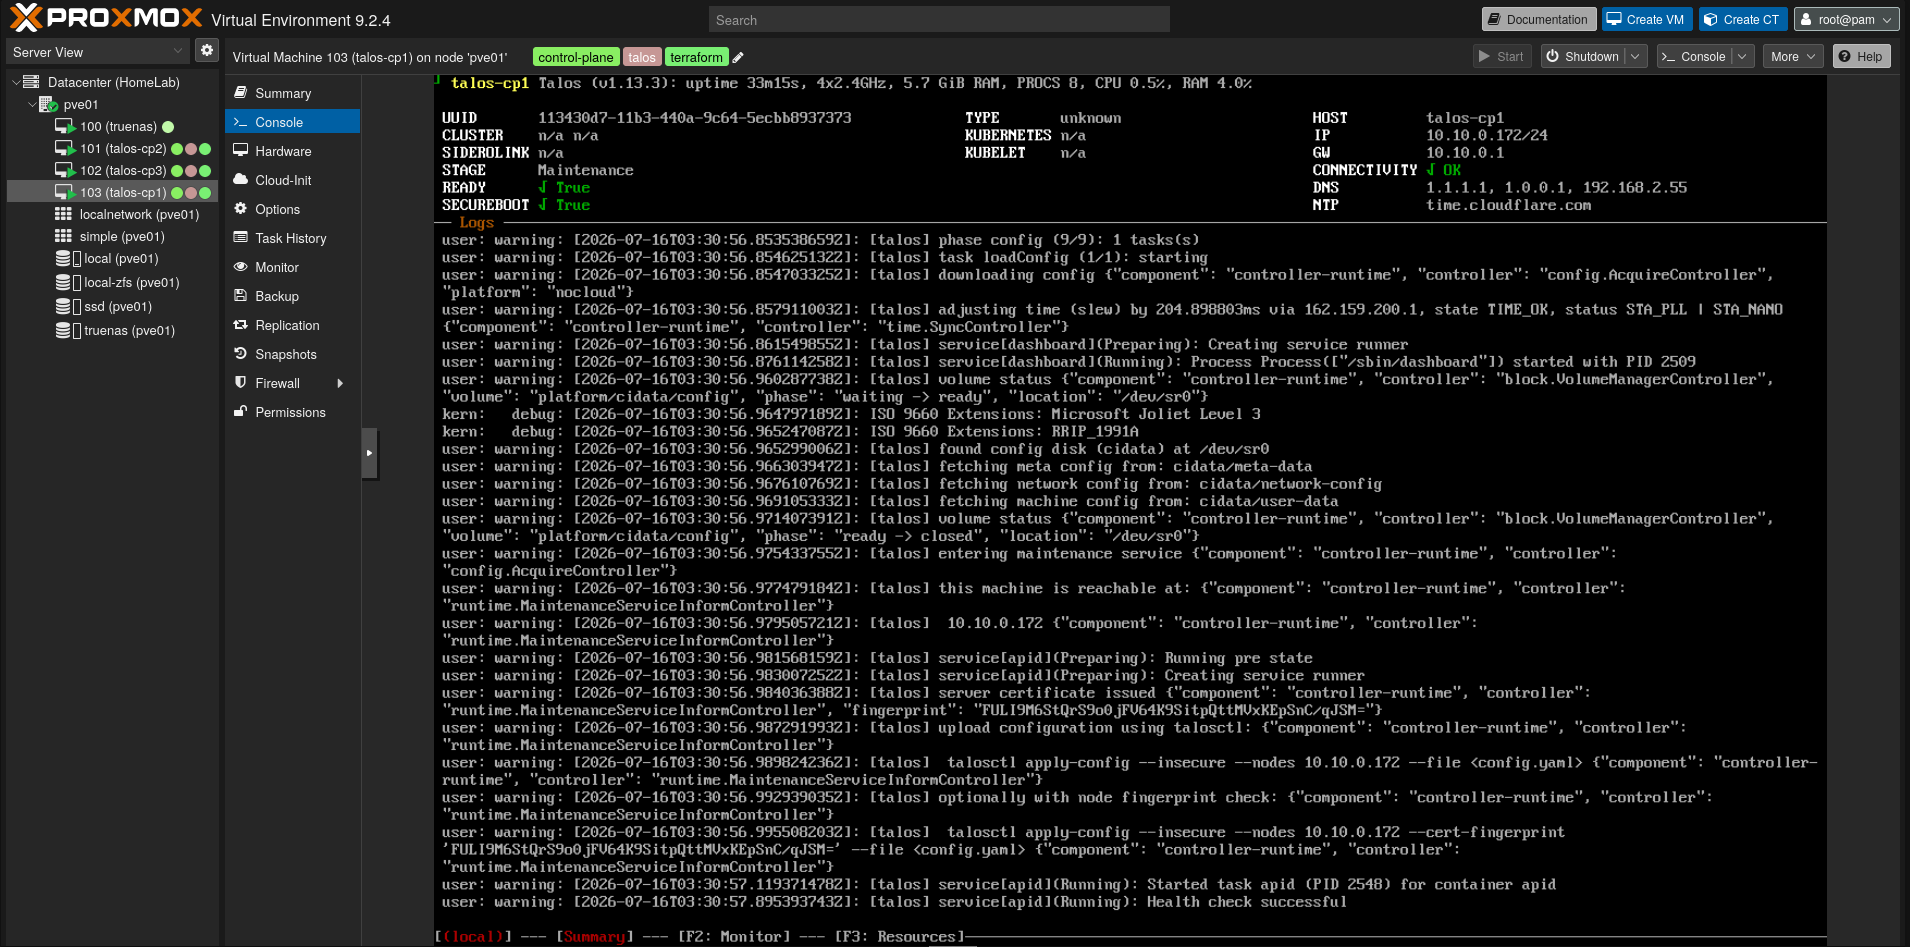
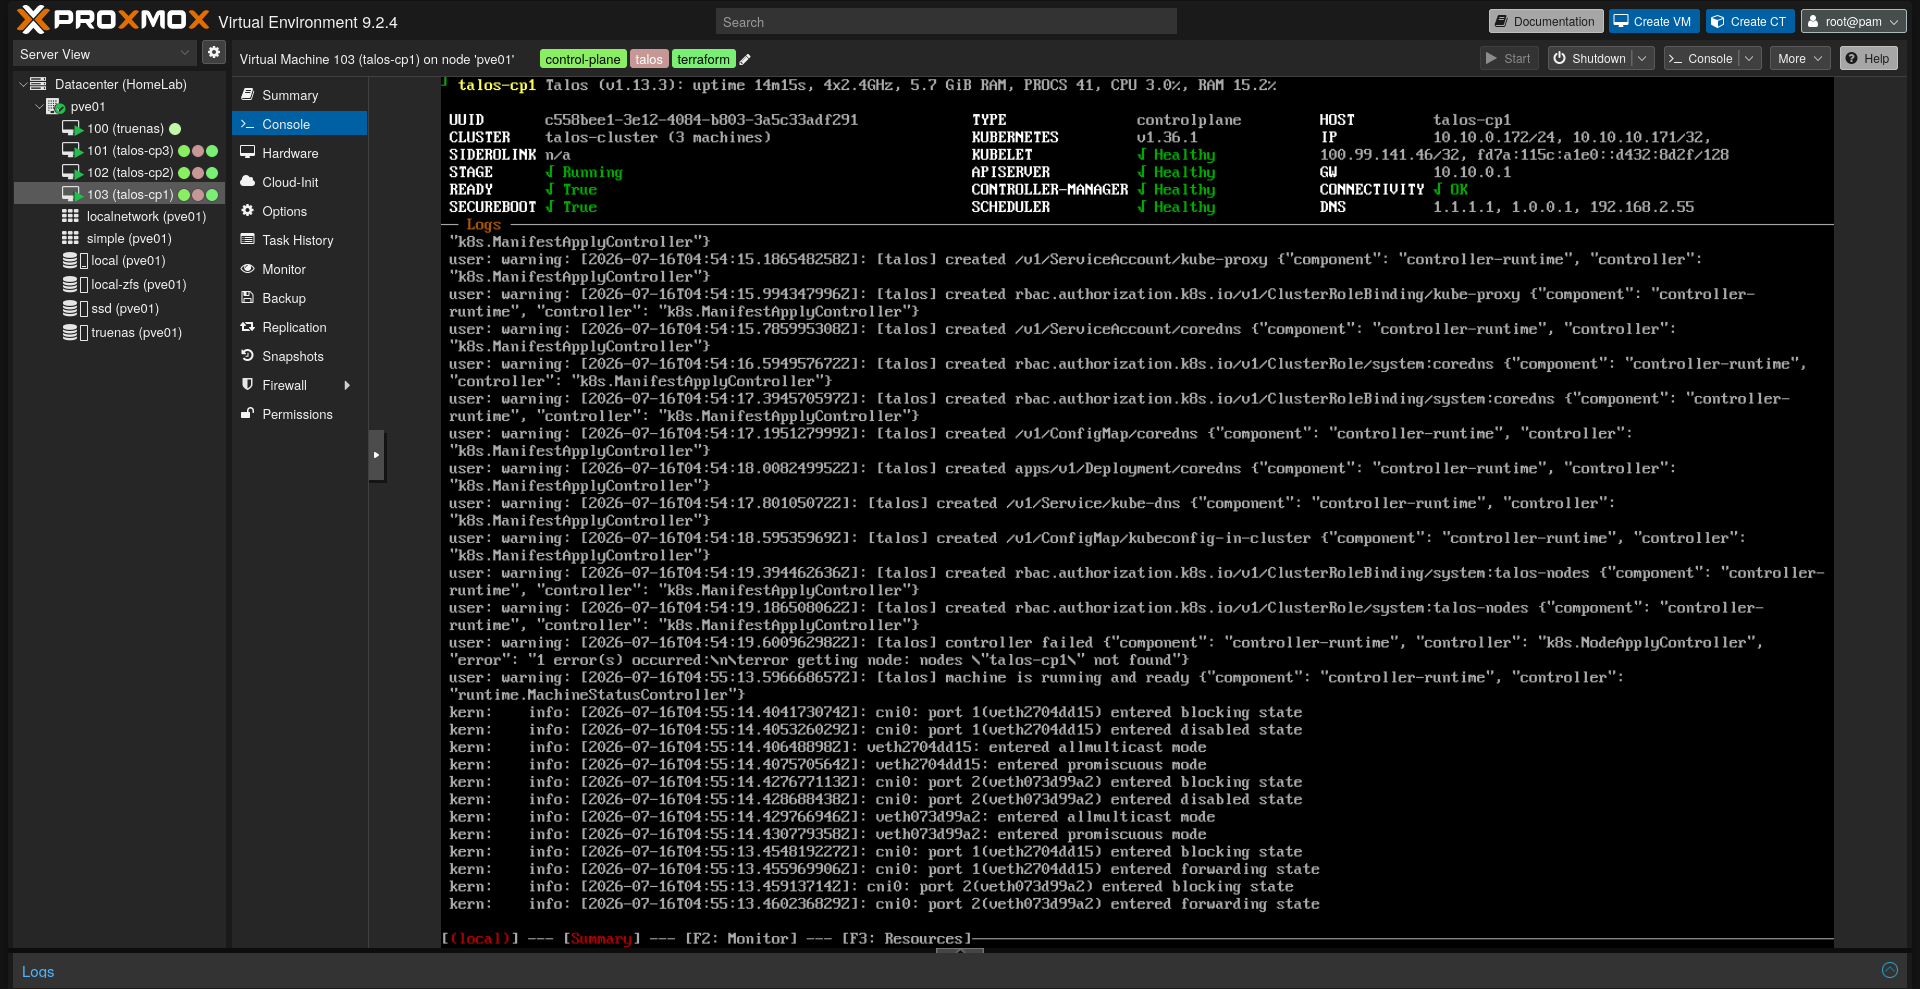
feat: update Terraform provider versions to 0.12.0-alpha.5 and 0.111.1; streamline Terraform apply steps

Changed region(s): [[0.0, 0.0, 0.9885, 1.0], [0.7723, 0.0, 1.0, 0.0919], [0.3707, 0.0, 0.4016, 0.0306]]

diff --git a/README.md b/README.md
@@ -339,9 +339,11 @@ To use it from a fork:
 | `TS_OAUTH_CLIENT_ID` | Tailscale OAuth client ID |
 | `TS_OAUTH_SECRET` | Tailscale OAuth client secret |
 | `PROXMOX_API_TOKEN` | Proxmox API token |
-| `TAILSCALE_AUTH_KEY` | Tailscale auth key (for cluster nodes) |
+| `TAILSCALE_AUTH_KEY` | Tailscale auth key — **reusable + ephemeral** (see below) |
 
 5. Push to `main` — the workflow validates, applies, and uploads `talosconfig` + `kubeconfig` as artifacts
+
+> **About `TAILSCALE_AUTH_KEY`**: Create it in the Tailscale admin console under **Settings → Keys → Auth keys**. Enable **Reusable** (same key across workflow runs) and **Ephemeral** (nodes auto-remove from tailnet when they shut down — prevents stale devices piling up). An ephemeral key won't leave orphaned machines if a VM is destroyed without properly disconnecting Tailscale.
 
 ---
 